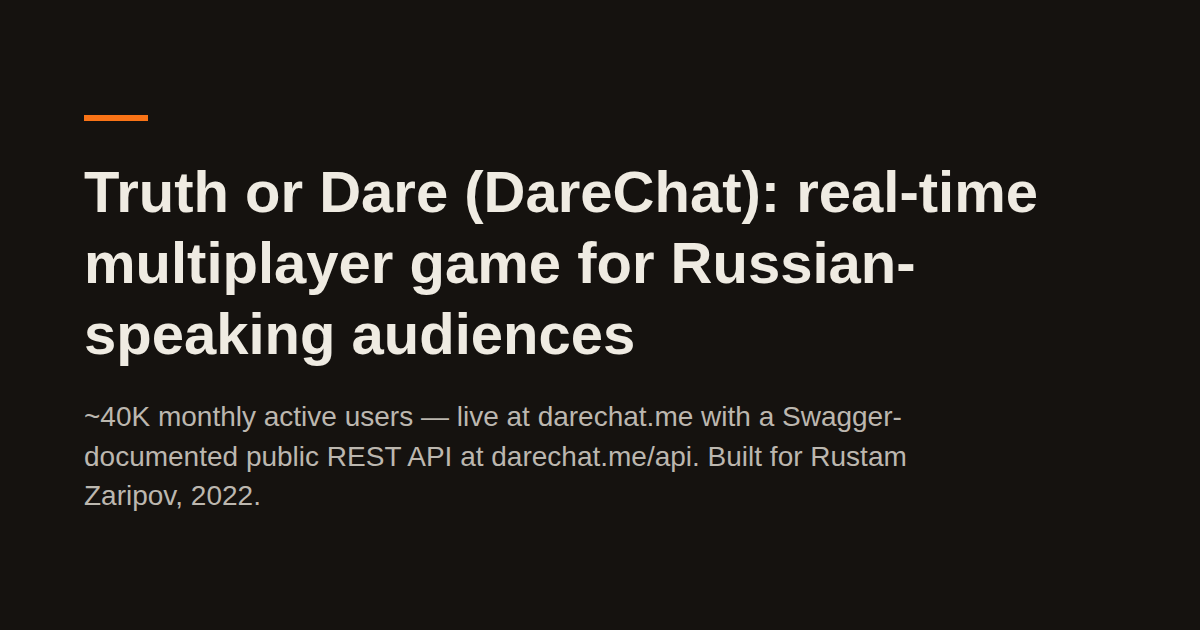
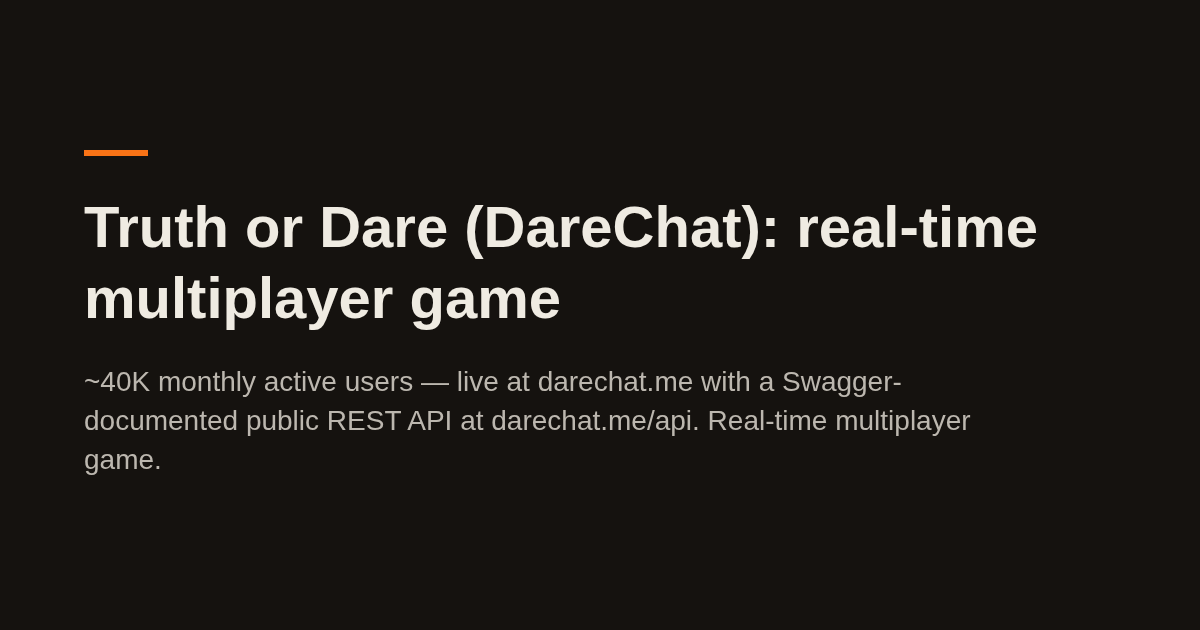
fix(seo): search words and shorter case-study titles
/work/code-review is now "Node.js API Code Review", so it no longer competes with the audit offer. Three kind lines are cut to fit about 60 characters, using only words from their own descriptions.

Changed region(s): [[0.0617, 0.181, 0.8633, 0.8143]]

diff --git a/lib/data.ts b/lib/data.ts
@@ -164,7 +164,7 @@ export const projects = {
     {
       title: "Truth or Dare (DareChat)",
       slug: "truth-or-dare",
-      kind: "real-time multiplayer game for Russian-speaking audiences",
+      kind: "real-time multiplayer game",
       alternateName: "Truth or Dare",
       heroSize: { width: 1600, height: 2021 },
       cardImage: {
@@ -213,7 +213,7 @@ export const projects = {
     {
       title: "FoodRazor",
       slug: "foodrazor",
-      kind: "paper invoices, orders to suppliers and price tracking",
+      kind: "invoices, orders to suppliers and price tracking",
       heroSize: { width: 1600, height: 801 },
       cardImage: {
         src: "/img/projects/foodrazor/card.webp",
@@ -339,7 +339,7 @@ export const projects = {
     {
       title: "Sogroya Dose Reminder",
       slug: "sogroya",
-      kind: "multilingual web app for weekly medication reminders",
+      kind: "multilingual medication reminders",
       catalogSlug: "zero-to-production-saas-mvp",
       logoImageURL: "/img/projects/sogroya/logo.svg",
       logoPlate: true,
@@ -493,7 +493,7 @@ export const projects = {
       madeForURL: "https://www.linkedin.com/in/hamishogilvy/",
     },
     {
-      title: "Code Review & Architecture Audit",
+      title: "Node.js API Code Review",
       slug: "code-review",
       kind: "callbacks and code style report",
       heroSize: { width: 1600, height: 1090 },

diff --git a/test/work/truth-or-dare.test.ts b/test/work/truth-or-dare.test.ts
@@ -28,7 +28,7 @@ pageTest(
     assertEquals(h1.length, 1)
     assertEquals(
       visibleText(h1[0][1]),
-      "Truth or Dare (DareChat) : Real-time multiplayer game for Russian-speaking audiences",
+      "Truth or Dare (DareChat) : Real-time multiplayer game",
     )
   },
 )

diff --git a/test/work/foodrazor.test.ts b/test/work/foodrazor.test.ts
@@ -29,7 +29,7 @@ pageTest(
     assertEquals(h1.length, 1)
     assertEquals(
       visibleText(h1[0][1]),
-      "FoodRazor : Paper invoices, orders to suppliers and price tracking",
+      "FoodRazor : Invoices, orders to suppliers and price tracking",
     )
   },
 )
